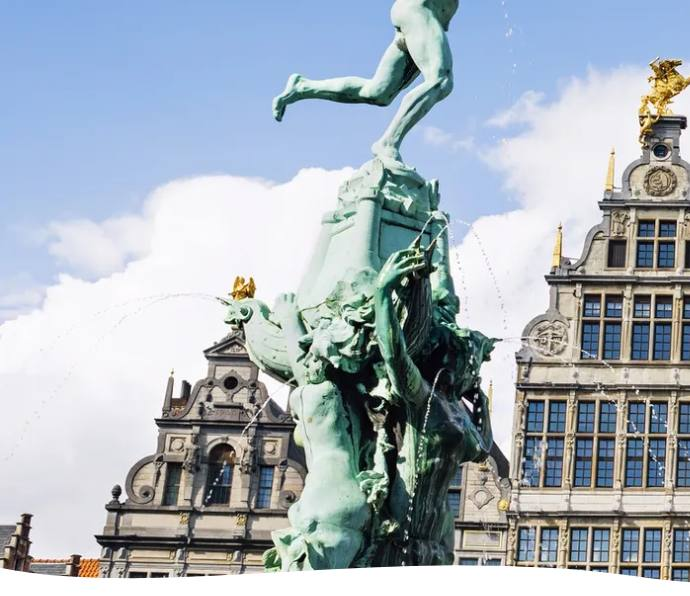
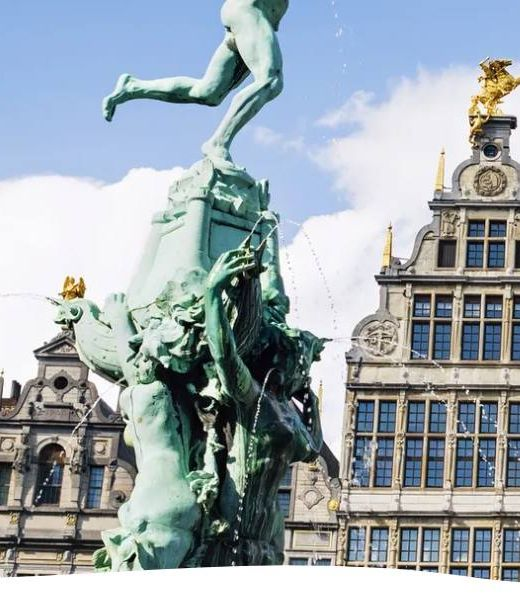
İndex page updated

diff --git a/index.html b/index.html
@@ -167,9 +167,9 @@ nav a{font-size:1.05rem;padding:14px 4px;border-bottom:1px solid var(--line)}nav
 .apg h4{margin:0 0 12px;text-align:center;font:600 .95rem "Plus Jakarta Sans",sans-serif;color:var(--fg)}
 .aps{display:grid;grid-template-columns:repeat(3,minmax(0,1fr));gap:12px}.aps .ap{margin-top:0}
 @media(max-width:700px){.aps{grid-template-columns:minmax(0,1fr)}.apg{max-width:440px}
-.hero{height:auto;aspect-ratio:690/596;background:url('images/hero-m.jpg') center/100% 100% no-repeat}
-.hero .c{left:76%;top:63%;right:auto;bottom:auto;width:min(176px,46vw);height:min(176px,46vw);transform:translate(-50%,-50%);border-radius:50%;background:rgba(47,127,101,.78);padding:7%}
-.hero h1{font-size:.95rem}.hero h1 span{margin-top:.3em;font-size:.76rem;line-height:1.3}.hero .pill{margin-top:.55em;font-size:.64rem;padding:3px 3px 3px 10px;gap:6px;white-space:nowrap}.hero .pill i{width:22px;height:22px}
+.hero{height:auto;aspect-ratio:520/596;background:url('images/hero-m.jpg') center/100% 100% no-repeat}
+.hero .c{left:77%;top:62%;right:auto;bottom:auto;width:min(166px,43vw);height:min(166px,43vw);transform:translate(-50%,-50%);border-radius:50%;background:rgba(47,127,101,.78);padding:7%}
+.hero h1{font-size:.9rem}.hero h1 span{margin-top:.3em;font-size:.72rem;line-height:1.3}.hero .pill{margin-top:.5em;font-size:.6rem;padding:3px 3px 3px 10px;gap:6px;white-space:nowrap}.hero .pill i{width:22px;height:22px}
 .gal-b{display:none}}
 </style>
 </head>
